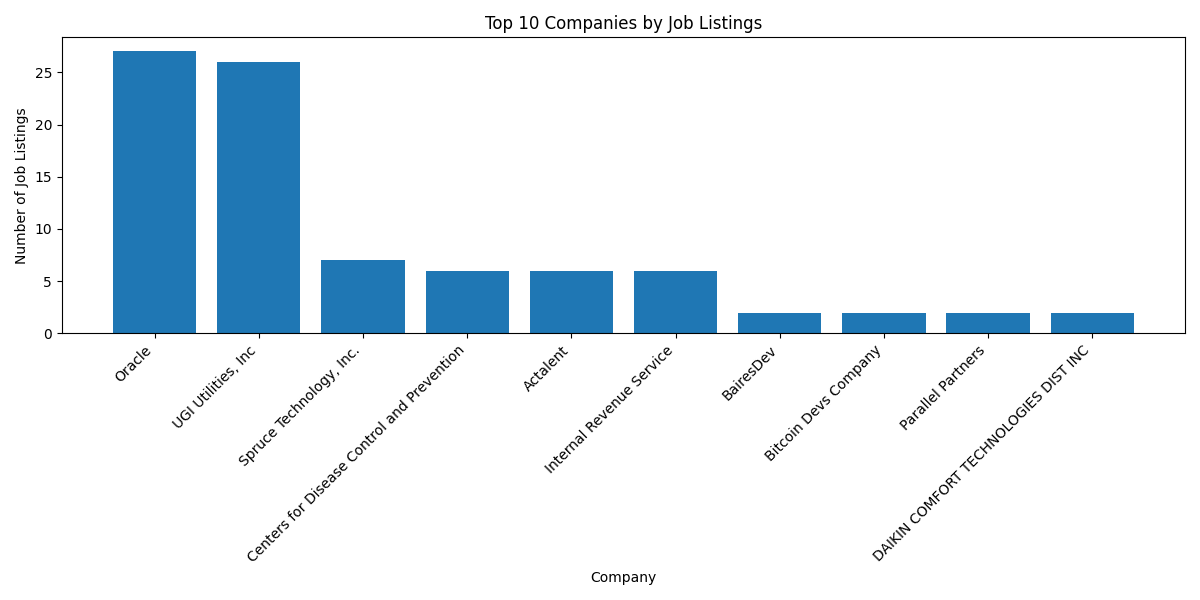
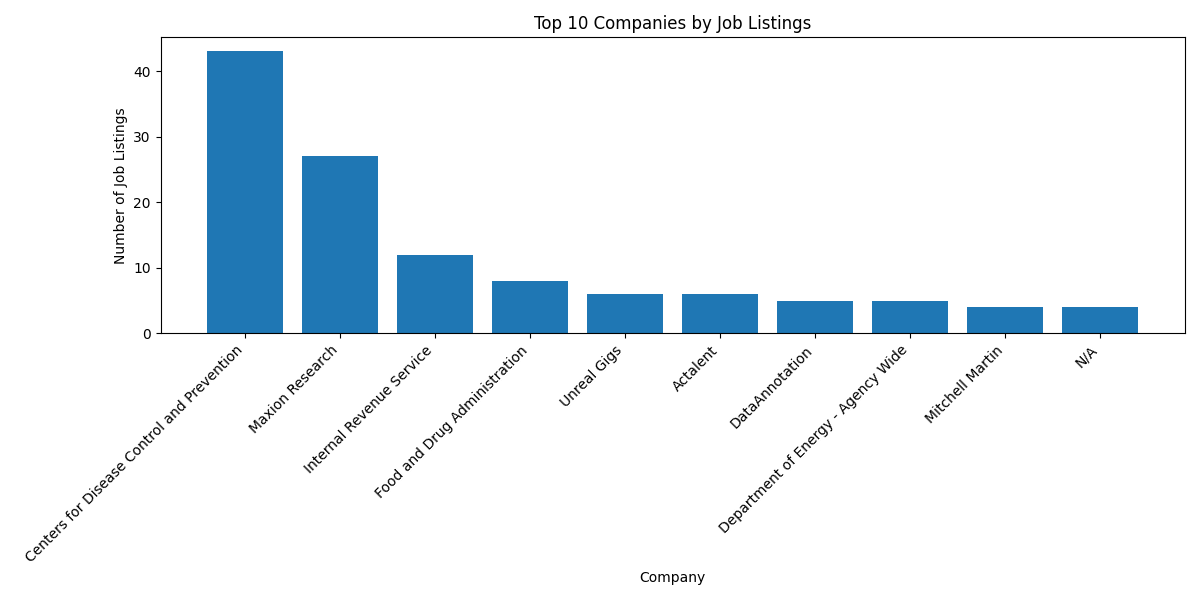
Enhance filtering and include URLs for job applications

diff --git a/api_clients.py b/api_clients.py
@@ -15,6 +15,13 @@ class JobAPIClient(ABC):
     def fetch_jobs(self, query: str, location: str | None, remote: bool, distance: int | None, max_experience: int, limit: int) -> list[JobListing]:
         pass
 
+    def _filter_senior_titles(self, job_listings: list[JobListing]) -> list[JobListing]:
+        senior_title_indicators = ["senior", "sr", "lead", "2", "3", "4", "5", "ii", "iii", "iv", "manager", "expert", "director", "principal"]
+        return [
+            job for job in job_listings 
+            if not any(word in job.job_title.lower() for word in senior_title_indicators)
+        ]
+
 class AdzunaAPIClient(JobAPIClient):
     def __init__(self) -> None:
         self.app_id = config.ADZUNA_APP_ID
@@ -44,11 +51,16 @@ class AdzunaAPIClient(JobAPIClient):
             response.raise_for_status()
             jobs_data = response.json()["results"]
 
-            return [
+            job_listings = [
                 self._create_job_listing(job)
                 for job in jobs_data
                 if self._check_experience(job, max_experience)
             ]
+            
+            filtered_listings = self._filter_senior_titles(job_listings)
+            logger.info(f"Filtered out {len(job_listings) - len(filtered_listings)} senior job listings from Adzuna results")
+            
+            return filtered_listings
         except requests.RequestException as e:
             logger.error(f"Error fetching jobs from Adzuna: {e}")
             return []
@@ -61,7 +73,8 @@ class AdzunaAPIClient(JobAPIClient):
             job_description=job.get("description", "N/A"),
             salary_low=job.get("salary_min"),
             salary_high=job.get("salary_max"),
-            source="Adzuna"
+            source="Adzuna",
+            application_url=job.get("redirect_url", "N/A")
         )
         
     def _check_experience(self, job: dict[str, any], max_experience: int) -> bool:
@@ -123,15 +136,16 @@ class USAJobsAPIClient(JobAPIClient):
                 logger.warning("No SearchResult found in the USAJobs API response")
                 return []
 
-            processed_jobs = []
-            for job in jobs_data:
-                if self._check_experience(job, max_experience):
-                    processed_jobs.append(self._create_job_listing(job))
-                else:
-                    logger.debug(f"Job {job['MatchedObjectDescriptor'].get('PositionTitle', 'N/A')} filtered out due to experience requirement")
-
-            logger.debug(f"Number of jobs after experience filter: {len(processed_jobs)}")
-            return processed_jobs
+            job_listings = [
+                self._create_job_listing(job)
+                for job in jobs_data
+                if self._check_experience(job, max_experience)
+            ]
+            
+            filtered_listings = self._filter_senior_titles(job_listings)
+            logger.info(f"Filtered out {len(job_listings) - len(filtered_listings)} senior job listings from USAJobs results")
+            
+            return filtered_listings
 
         except requests.RequestException as e:
             logger.error(f"Error fetching jobs from USA Jobs: {e}")
@@ -147,7 +161,8 @@ class USAJobsAPIClient(JobAPIClient):
             job_description=job_data.get("QualificationSummary", "N/A"),
             salary_low=float(job_data["PositionRemuneration"][0]["MinimumRange"]) if job_data.get("PositionRemuneration") else None,
             salary_high=float(job_data["PositionRemuneration"][0]["MaximumRange"]) if job_data.get("PositionRemuneration") else None,
-            source="USA Jobs"
+            source="USA Jobs",
+            application_url=job_data.get("ApplyURI", ["N/A"])[0]
         )
         
     def _check_experience(self, job: dict[str, any], max_experience: int) -> bool:

diff --git a/main.py b/main.py
@@ -11,22 +11,23 @@ import config
 logging.basicConfig(level=config.LOG_LEVEL, format=config.LOG_FORMAT)
 logger = logging.getLogger(__name__)
 
-def search_jobs(collector: JobDataCollector, query: str, location: str = None, remote: bool = config.DEFAULT_REMOTE) -> list:
-    jobs = []
-    for source in ["adzuna", "usajobs"]:
-        logger.info(f"Fetching {'remote' if remote else 'local'} jobs from {source.capitalize()}...")
-        source_jobs = collector.collect_jobs(
-            query=query,
-            location=location,
-            remote=remote,
-            distance=config.DEFAULT_DISTANCE if location else None,
-            max_experience=config.DEFAULT_MAX_EXPERIENCE,
-            limit=config.DEFAULT_LIMIT,
-            source=source
-        )
-        logger.info(f"Found {len(source_jobs)} jobs from {source.capitalize()}")
-        jobs.extend(source_jobs)
-    return jobs
+def search_jobs(collector: JobDataCollector, job_titles: list[str], location: str = None, remote: bool = config.DEFAULT_REMOTE) -> list:
+    all_jobs = []
+    for job_title in job_titles:
+        for source in ["adzuna", "usajobs"]:
+            logger.info(f"Fetching {'remote' if remote else 'local'} {job_title} jobs from {source.capitalize()}...")
+            source_jobs = collector.collect_jobs(
+                query=job_title,
+                location=location,
+                remote=remote,
+                distance=config.DEFAULT_DISTANCE if location else None,
+                max_experience=config.DEFAULT_MAX_EXPERIENCE,
+                limit=config.DEFAULT_LIMIT,
+                source=source
+            )
+            logger.info(f"Found {len(source_jobs)} {job_title} jobs from {source.capitalize()}")
+            all_jobs.extend(source_jobs)
+    return all_jobs
 
 def main() -> None:
     adzuna_client = AdzunaAPIClient()
@@ -34,12 +35,14 @@ def main() -> None:
 
     collector = JobDataCollector(adzuna_client, usa_jobs_client)
 
+    job_titles = ["Software Developer", "Data Analyst", "Software Engineer", "Web Developer"]
+
     try:
         # Search for remote jobs
-        remote_jobs = search_jobs(collector, query="Software Developer", remote=True)
+        remote_jobs = search_jobs(collector, job_titles=job_titles, remote=True)
 
         # Search for local jobs in Denver, CO
-        denver_jobs = search_jobs(collector, query="Software Developer", location="Denver, CO", remote=False)
+        denver_jobs = search_jobs(collector, job_titles=job_titles, location="Denver, CO", remote=False)
 
         all_jobs = remote_jobs + denver_jobs
 

diff --git a/collect_data.py b/collect_data.py
@@ -27,7 +27,19 @@ class JobDataCollector:
             return adzuna_jobs + usa_jobs
     
     def save_to_csv(self, jobs: list[JobListing], filename: str) -> None:
-        df = pd.DataFrame([job.__dict__ for job in jobs])
-        df["timestamp"] = datetime.now()
+        df = pd.DataFrame([
+            {
+                "job_title": job.job_title,
+                "company_name": job.company_name,
+                "job_location": job.job_location,
+                "job_description": job.job_description,
+                "salary_low": job.salary_low,
+                "salary_high": job.salary_high,
+                "source": job.source,
+                "application_url": job.application_url,
+                "timestamp": datetime.now()
+            }
+            for job in jobs
+        ])
         df.to_csv(filename, index=False)
         logger.info(f"Data saved to {filename}")

diff --git a/job_listing.py b/job_listing.py
@@ -9,6 +9,7 @@ class JobListing:
     salary_low: float | None
     salary_high: float | None
     source: str
+    application_url: str
 
     def __post_init__(self):
         if self.salary_low is not None and self.salary_high is not None:
